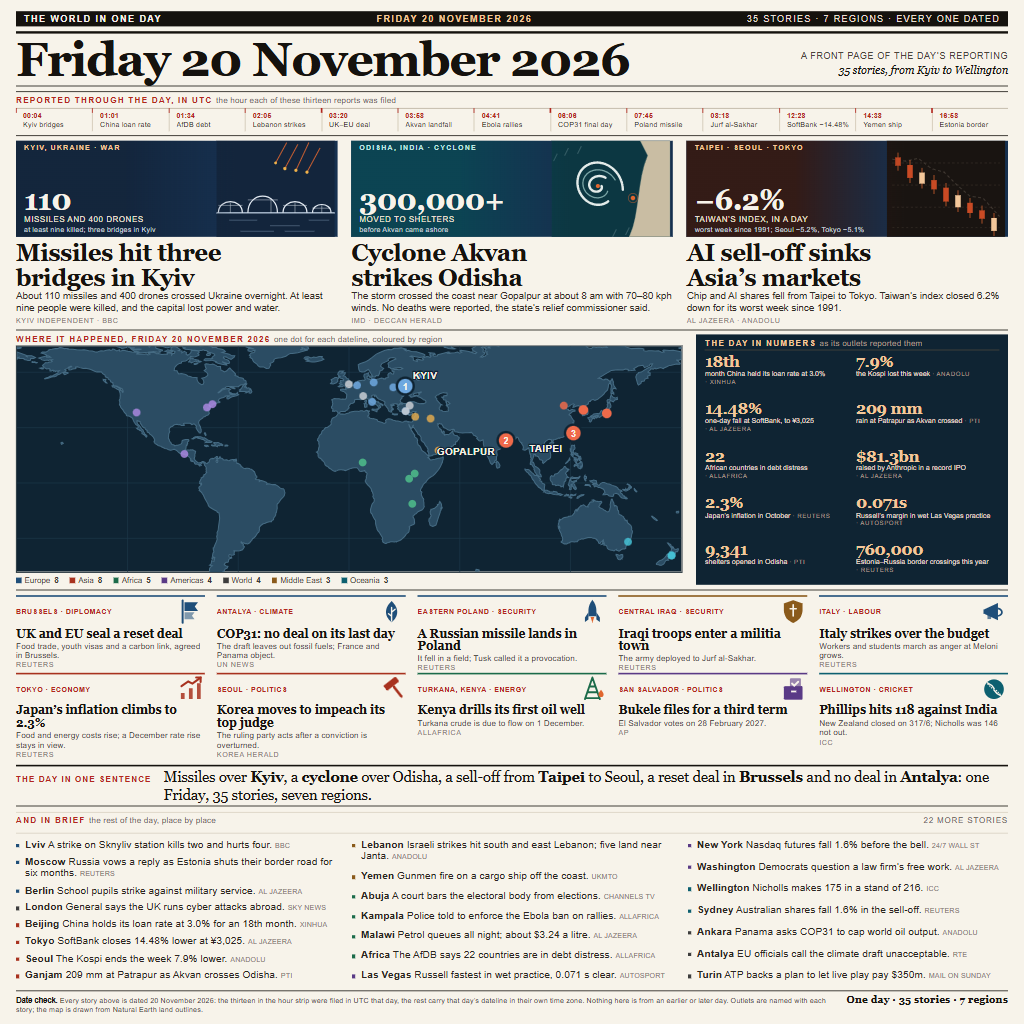
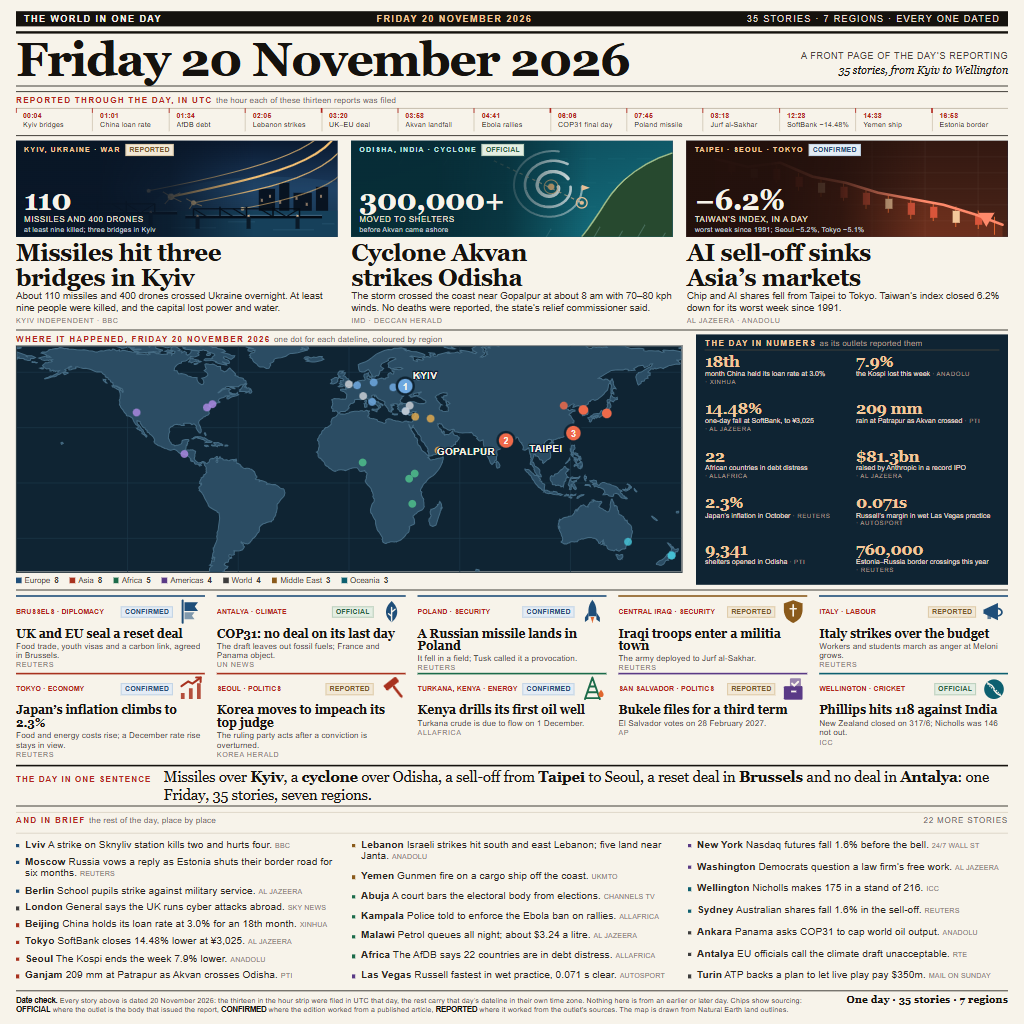
Full-bleed lead drawings behind a legibility scrim; sourcing chips on the three leads and ten cards

diff --git a/tools/poster.html b/tools/poster.html
@@ -36,13 +36,15 @@
   .leads { display:grid; grid-template-columns:repeat(3,minmax(0,1fr)); gap:0 14px }
   .lead { min-width:0; display:flex; flex-direction:column }
   .panel { position:relative; display:flex; height:96px; overflow:hidden; background:#16304f }
-  .panel .part { position:absolute; right:0; top:0; width:124px; height:96px }
-  .panel .part svg { display:block; width:124px; height:96px }
-  .panel::after { content:''; position:absolute; inset:0; background:linear-gradient(90deg, rgba(19,37,60,.97) 34%, rgba(19,37,60,0) 68%); z-index:1 }
-  .lead:nth-child(2) .panel::after { background:linear-gradient(90deg, rgba(11,68,83,.97) 34%, rgba(11,68,83,0) 68%) }
-  .lead:nth-child(3) .panel::after { background:linear-gradient(90deg, rgba(52,26,21,.97) 34%, rgba(52,26,21,0) 68%) }
+  .panel .part { position:absolute; inset:0 }
+  .panel .part svg { display:block; width:100%; height:96px }
+  .panel::after { content:''; position:absolute; inset:0; z-index:1;
+    background:linear-gradient(90deg, rgba(9,22,38,.98) 26%, rgba(9,22,38,.8) 48%, rgba(9,22,38,0) 74%) }
+  .lead:nth-child(2) .panel::after { background:linear-gradient(90deg, rgba(7,44,54,.98) 26%, rgba(7,44,54,.8) 48%, rgba(7,44,54,0) 74%) }
+  .lead:nth-child(3) .panel::after { background:linear-gradient(90deg, rgba(34,16,12,.98) 26%, rgba(34,16,12,.8) 48%, rgba(34,16,12,0) 74%) }
   .panel-txt { position:relative; z-index:2; padding:3px 0 3px 8px; width:100%; color:#f7f3ea;
     display:flex; flex-direction:column }
+  .pkrow { display:flex; align-items:center; gap:5px }
   .pk { font-size:7.4px; letter-spacing:.13em; text-transform:uppercase; color:#f3c79a; font-weight:700 }
   .pfig { font-family:Georgia,serif; font-size:29px; font-weight:700; line-height:1; letter-spacing:-.02em; margin-top:auto }
   .punit { font-size:8.2px; letter-spacing:.05em; text-transform:uppercase; color:#ece3d5; margin-top:1px }
@@ -78,7 +80,12 @@
   .cards { display:grid; grid-template-columns:repeat(5,minmax(0,1fr)); gap:0 12px; align-content:start }
   .card { padding:1px 0 1px; border-top:2px solid var(--gc); min-width:0 }
   .chead { display:flex; justify-content:space-between; align-items:center; gap:4px; min-height:28px }
-  .ck { flex:1 1 auto; min-width:0; font-size:6.9px; letter-spacing:.08em; text-transform:uppercase; color:var(--accent); font-weight:700; white-space:nowrap; overflow:hidden }
+  .ck { flex:1 1 auto; min-width:0; font-size:6.5px; letter-spacing:.06em; text-transform:uppercase; color:var(--accent); font-weight:700; white-space:nowrap; overflow:hidden }
+  .bdg { display:inline-block; flex:0 0 auto; font-size:6.5px; line-height:1; letter-spacing:.08em;
+    font-weight:700; text-transform:uppercase; padding:2px 3px 1.5px; border:.6px solid currentColor; white-space:nowrap }
+  .bdg.o { color:#2c6446; background:#e4eee3; border-color:#b4cbb6 }
+  .bdg.c { color:#2a4f78; background:#e4ecf5; border-color:#bccfe2 }
+  .bdg.r { color:#7b5b2c; background:#f2e8d6; border-color:#dbc6a0 }
   .cg { flex:0 0 28px; width:28px; height:28px; color:var(--gc) }
   .cg svg { display:block; width:28px; height:28px }
   .card h4 { font-family:Georgia,serif; font-size:12.1px; line-height:1.04; letter-spacing:-.01em; margin:1px 0 }
@@ -131,27 +138,59 @@
   <article class="lead">
     <div class="panel">
       <div class="panel-txt">
-        <div class="pk">KYIV, UKRAINE · WAR</div>
+        <div class="pkrow"><span class="pk">KYIV, UKRAINE · WAR</span><span class="bdg r">REPORTED</span></div>
         <div class="pfig">110</div>
         <div class="punit">missiles and 400 drones</div>
         <div class="psub">at least nine killed; three bridges in Kyiv</div>
       </div>
-      <div class="part"><svg viewBox="0 0 128 104" aria-hidden="true">
-    <rect width="128" height="104" fill="#13253c"/>
-    <g stroke="#e0662f" stroke-width="1" stroke-linecap="round" opacity="0.95">
-      <path d="M88 4L74 30"/><path d="M100 2L86 32"/><path d="M112 8L98 34"/><path d="M76 2L64 24"/>
+      <div class="part"><svg viewBox="0 0 315 96" preserveAspectRatio="none" aria-hidden="true">
+    <defs><linearGradient id="gb1" x1="0" y1="0" x2="0" y2="1">
+      <stop offset="0" stop-color="#0a1a30"/><stop offset=".5" stop-color="#1b3a5d"/><stop offset="1" stop-color="#0e2438"/>
+    </linearGradient></defs>
+    <rect width="315" height="96" fill="url(#gb1)"/>
+    <ellipse cx="250" cy="70" rx="120" ry="34" fill="#2a5a7d" opacity=".28"/>
+    <g fill="#060f1b" opacity=".92">
+      <rect x="0" y="56" width="20" height="16"/><rect x="26" y="50" width="12" height="22"/>
+      <rect x="238" y="48" width="16" height="24"/><rect x="258" y="42" width="10" height="30"/>
+      <rect x="272" y="52" width="18" height="20"/><rect x="294" y="46" width="12" height="26"/>
     </g>
-    <g fill="#f0b24a"><circle cx="74" cy="30" r="1.7"/><circle cx="86" cy="32" r="1.7"/><circle cx="98" cy="34" r="1.7"/><circle cx="64" cy="24" r="1.5"/></g>
-    <path d="M0 78H128" stroke="#aebfd2" stroke-width="1.5"/>
-    <g fill="none" stroke="#e4ebf3" stroke-width="1.3">
-      <path d="M2 78C2 62 28 62 28 78"/><path d="M34 78C34 54 66 54 66 78"/><path d="M72 78C72 62 98 62 98 78"/><path d="M104 78C104 66 124 66 124 78"/>
+    <g fill="none" stroke="#ffc775" stroke-linecap="round">
+      <path d="M314 -6C296 24 236 38 152 56" stroke-width="2.1" opacity=".95"/>
+      <path d="M316 12C292 38 238 50 174 62" stroke-width="1.2" opacity=".8"/>
+      <path d="M302 -8C278 16 222 32 130 50" stroke-width="1" opacity=".7"/>
+      <path d="M318 34C302 50 264 60 222 68" stroke-width="1" opacity=".55"/>
     </g>
-    <g stroke="#dbe3ec" stroke-width="0.6" opacity="0.85">
-      <path d="M15 78V67M59 78V62M85 78V67M114 78V70"/>
-      <path d="M2 70H28M34 64H66M72 70H98M104 73H124"/>
+    <g fill="#ffd9a0">
+      <circle cx="152" cy="56" r="3.2"/><circle cx="174" cy="62" r="2.4"/>
+      <circle cx="130" cy="50" r="1.9"/><circle cx="222" cy="68" r="1.7"/>
     </g>
-    <g stroke="#7f97b2" stroke-width="0.8" opacity="0.6">
-      <path d="M14 86H44M58 92H90M100 86H122M26 98H62M74 98H106"/>
+    <g stroke="#f6c27a" stroke-width=".9" opacity=".85">
+      <path d="M152 56l-8-5M152 56l9-4M152 56l-6 7M152 56l10 5"/>
+      <path d="M174 62l-7-4M174 62l8 3M174 62l-4 6"/>
+    </g>
+    <rect x="0" y="70" width="315" height="26" fill="#16405a"/>
+    <g fill="#f3c79a" opacity=".55"><rect x="240" y="58" width="2" height="3"/><rect x="248" y="54" width="2" height="3"/><rect x="258" y="60" width="2" height="3"/><rect x="274" y="56" width="2" height="3"/><rect x="284" y="62" width="2" height="3"/><rect x="298" y="54" width="2" height="3"/><rect x="6" y="60" width="2" height="3"/><rect x="14" y="56" width="2" height="3"/></g>
+    <g stroke="#2c5f79" stroke-width=".8" opacity=".6">
+      <path d="M8 78h26M46 84h34M96 79h30M152 87h44M208 81h26M252 89h40M300 83h12"/>
+    </g>
+    <g fill="none" stroke="#040c15" stroke-linejoin="round">
+      <path d="M16 72h142" stroke-width="3.4"/><path d="M166 76h134" stroke-width="3.2"/>
+      <path d="M16 70.6h142M166 74.6h134" stroke="#5b8bab" stroke-width=".7"/>
+      <path d="M24 72v-9M52 72v-12M80 72v-12M108 72v-12M136 72v-9" stroke-width="1.5"/>
+      <path d="M24 63h112" stroke-width="1.2"/>
+      <path d="M24 63l14 9M52 63l14 9M66 63l14 9M94 63l14 9M108 63l14 9M136 63l-14 9" stroke-width="1"/>
+      <path d="M174 76v-8M200 76v-10M226 76v-10M252 76v-10M278 76v-8" stroke-width="1.5"/>
+      <path d="M174 68h104" stroke-width="1.2"/>
+      <path d="M174 68l13 8M200 68l13 8M213 68l13 8M239 68l13 8M252 68l13 8M278 68l-13 8" stroke-width="1"/>
+    </g>
+    <g fill="#0a1a28">
+      <rect x="24" y="72" width="4" height="13"/><rect x="78" y="72" width="4" height="13"/>
+      <rect x="130" y="72" width="4" height="13"/><rect x="176" y="76" width="4" height="12"/>
+      <rect x="226" y="76" width="4" height="12"/><rect x="274" y="76" width="4" height="12"/>
+    </g>
+    <g fill="#f3c79a" opacity=".9">
+      <circle cx="26" cy="71" r=".9"/><circle cx="80" cy="71" r=".9"/><circle cx="132" cy="71" r=".9"/>
+      <circle cx="178" cy="75" r=".9"/><circle cx="228" cy="75" r=".9"/><circle cx="276" cy="75" r=".9"/>
     </g>
   </svg></div>
     </div>
@@ -162,22 +201,39 @@
   <article class="lead">
     <div class="panel">
       <div class="panel-txt">
-        <div class="pk">ODISHA, INDIA · CYCLONE</div>
+        <div class="pkrow"><span class="pk">ODISHA, INDIA · CYCLONE</span><span class="bdg o">OFFICIAL</span></div>
         <div class="pfig">300,000+</div>
         <div class="punit">moved to shelters</div>
         <div class="psub">before Akvan came ashore</div>
       </div>
-      <div class="part"><svg viewBox="0 0 128 104" aria-hidden="true">
-    <rect width="128" height="104" fill="#0c3742"/>
-    <path d="M96 0H128V104H84C96 78 92 44 104 16Z" fill="#c9bda3"/>
-    <path d="M96 0H128V104H84C96 78 92 44 104 16Z" fill="none" stroke="#8f9f92" stroke-width="0.6" opacity="0.6"/>
-    <path d="M54.0 49.0L54.1 49.1L54.1 49.2L54.1 49.4L54.2 49.5L54.2 49.6L54.2 49.8L54.3 49.9L54.3 50.1L54.3 50.2L54.3 50.4L54.3 50.5L54.3 50.7L54.3 50.8L54.3 51.0L54.2 51.1L54.2 51.3L54.2 51.4L54.1 51.6L54.1 51.7L54.0 51.9L53.9 52.0L53.9 52.2L53.8 52.3L53.7 52.5L53.6 52.6L53.5 52.8L53.4 52.9L53.3 53.1L53.1 53.2L53.0 53.3L52.9 53.5L52.7 53.6L52.6 53.7L52.4 53.9L52.3 54.0L52.1 54.1L51.9 54.2L51.7 54.3L51.6 54.4L51.4 54.5L51.2 54.6L51.0 54.7L50.8 54.7L50.5 54.8L50.3 54.9L50.1 54.9L49.9 55.0L49.7 55.0L49.4 55.1L49.2 55.1L49.0 55.1L48.7 55.1L48.5 55.1L48.2 55.1L48.0 55.1L47.7 55.1L47.5 55.1L47.3 55.1L47.0 55.0L46.8 55.0L46.5 54.9L46.3 54.8L46.0 54.8L45.8 54.7L45.5 54.6L45.3 54.5L45.0 54.4L44.8 54.3L44.6 54.1L44.3 54.0L44.1 53.9L43.9 53.7L43.7 53.6L43.5 53.4L43.3 53.2L43.1 53.0L42.9 52.9L42.7 52.7L42.5 52.5L42.3 52.3L42.1 52.0L42.0 51.8L41.8 51.6L41.7 51.4L41.5 51.1L41.4 50.9L41.3 50.6L41.2 50.4L41.1 50.1L41.0 49.8L40.9 49.6L40.8 49.3L40.8 49.0L40.7 48.7L40.7 48.4L40.6 48.2L40.6 47.9L40.6 47.6L40.6 47.3L40.6 47.0L40.7 46.7L40.7 46.4L40.8 46.1L40.8 45.8L40.9 45.5L41.0 45.2L41.1 44.9L41.2 44.6L41.3 44.3L41.4 44.0L41.6 43.7L41.7 43.5L41.9 43.2L42.1 42.9L42.3 42.6L42.5 42.4L42.7 42.1L42.9 41.8L43.2 41.6L43.4 41.4L43.7 41.1L43.9 40.9L44.2 40.7L44.5 40.5L44.8 40.2L45.1 40.0L45.4 39.9L45.7 39.7L46.1 39.5L46.4 39.3L46.8 39.2L47.1 39.0L47.5 38.9L47.9 38.8L48.2 38.7L48.6 38.6L49.0 38.5L49.4 38.4L49.8 38.4L50.2 38.3L50.6 38.3L51.0 38.2L51.4 38.2L51.8 38.2L52.2 38.2L52.6 38.3L53.1 38.3L53.5 38.4L53.9 38.4L54.3 38.5L54.7 38.6L55.1 38.7L55.5 38.8L55.9 38.9L56.3 39.1L56.7 39.2L57.1 39.4L57.5 39.6L57.9 39.8L58.3 40.0" fill="none" stroke="#eef4f2" stroke-width="2.6" stroke-linecap="round" opacity="0.95" transform="rotate(0 50 49)"/><path d="M62.0 49.0L62.0 49.4L62.1 49.7L62.1 50.1L62.1 50.5L62.1 50.9L62.1 51.2L62.0 51.6L62.0 52.0L61.9 52.4L61.9 52.7L61.8 53.1L61.6 53.5L61.5 53.9L61.4 54.2L61.2 54.6L61.1 55.0L60.9 55.3L60.7 55.7L60.5 56.0L60.2 56.4L60.0 56.7L59.7 57.1L59.5 57.4L59.2 57.7L58.9 58.0L58.6 58.3L58.3 58.6L57.9 58.9L57.6 59.2L57.2 59.5L56.9 59.7L56.5 60.0L56.1 60.2L55.7 60.4L55.3 60.6L54.9 60.8L54.4 61.0L54.0 61.2L53.6 61.4L53.1 61.5L52.6 61.7L52.2 61.8L51.7 61.9L51.2 62.0L50.7 62.1L50.3 62.1L49.8 62.2L49.3 62.2L48.8 62.2L48.3 62.2L47.8 62.2L47.2 62.2L46.7 62.2L46.2 62.1L45.7 62.0L45.2 61.9L44.7 61.8L44.2 61.7L43.7 61.6L43.2 61.4L42.7 61.3L42.3 61.1L41.8 60.9L41.3 60.7L40.8 60.4L40.4 60.2L39.9 59.9L39.5 59.7L39.1 59.4L38.6 59.1L38.2 58.7L37.8 58.4L37.4 58.1L37.1 57.7L36.7 57.3L36.3 57.0L36.0 56.6L35.7 56.2L35.4 55.7L35.1 55.3L34.8 54.9L34.5 54.4L34.3 54.0L34.0 53.5L33.8 53.0L33.6 52.6L33.5 52.1L33.3 51.6L33.2 51.1L33.0 50.6L32.9 50.1L32.8 49.5L32.8 49.0L32.7 48.5L32.7 48.0L32.7 47.4L32.7 46.9L32.7 46.4L32.8 45.8L32.9 45.3L33.0 44.8L33.1 44.2L33.2 43.7L33.4 43.2L33.5 42.7L33.7 42.1L34.0 41.6L34.2 41.1L34.4 40.6L34.7 40.1L35.0 39.6L35.3 39.2L35.7 38.7L36.0 38.2L36.4 37.8L36.8 37.3L37.2 36.9L37.6 36.5L38.1 36.1L38.5 35.7L39.0 35.3L39.5 34.9L40.0 34.6L40.5 34.2L41.0 33.9L41.6 33.6L42.1 33.3L42.7 33.0L43.3 32.8L43.9 32.5L44.5 32.3L45.1 32.1L45.7 31.9L46.4 31.7L47.0 31.6L47.7 31.4L48.3 31.3L49.0 31.2L49.6 31.2L50.3 31.1L51.0 31.1L51.7 31.1L52.3 31.1L53.0 31.1L53.7 31.2L54.4 31.2L55.1 31.3L55.7 31.4L56.4 31.6L57.1 31.7L57.7 31.9L58.4 32.1L59.1 32.3L59.7 32.6L60.3 32.8L61.0 33.1L61.6 33.4L62.2 33.7L62.8 34.1L63.4 34.4" fill="none" stroke="#9ec9c6" stroke-width="1.4" stroke-linecap="round" opacity="0.75" transform="rotate(28 50 49)"/><path d="M70.0 49.0L70.0 49.6L70.1 50.2L70.1 50.8L70.0 51.5L70.0 52.1L69.9 52.7L69.8 53.3L69.7 53.9L69.6 54.5L69.4 55.1L69.2 55.7L69.0 56.3L68.8 56.9L68.5 57.5L68.2 58.1L67.9 58.7L67.6 59.2L67.2 59.8L66.9 60.3L66.5 60.9L66.1 61.4L65.6 61.9L65.2 62.4L64.7 62.9L64.2 63.4L63.7 63.9L63.2 64.3L62.6 64.7L62.1 65.2L61.5 65.6L60.9 65.9L60.3 66.3L59.6 66.7L59.0 67.0L58.3 67.3L57.7 67.6L57.0 67.9L56.3 68.1L55.6 68.3L54.9 68.5L54.1 68.7L53.4 68.9L52.7 69.0L51.9 69.2L51.1 69.3L50.4 69.3L49.6 69.4L48.9 69.4L48.1 69.4L47.3 69.4L46.5 69.3L45.8 69.3L45.0 69.2L44.2 69.1L43.5 68.9L42.7 68.8L42.0 68.6L41.2 68.4L40.5 68.1L39.7 67.9L39.0 67.6L38.3 67.3L37.6 67.0L36.9 66.6L36.2 66.3L35.5 65.9L34.8 65.5L34.2 65.0L33.6 64.6L32.9 64.1L32.3 63.6L31.8 63.1L31.2 62.6L30.7 62.0L30.1 61.5L29.6 60.9L29.1 60.3L28.7 59.7L28.2 59.0L27.8 58.4L27.4 57.7L27.1 57.1L26.7 56.4L26.4 55.7L26.1 55.0L25.9 54.3L25.6 53.5L25.4 52.8L25.2 52.0L25.1 51.3L24.9 50.5L24.8 49.8L24.8 49.0L24.7 48.2L24.7 47.5L24.7 46.7L24.8 45.9L24.8 45.2L25.0 44.4L25.1 43.6L25.2 42.8L25.4 42.1L25.7 41.3L25.9 40.6L26.2 39.8L26.5 39.1L26.8 38.4L27.2 37.6L27.6 36.9L28.0 36.2L28.4 35.5L28.9 34.8L29.4 34.2L29.9 33.5L30.5 32.9L31.1 32.3L31.7 31.7L32.3 31.1L32.9 30.5L33.6 30.0L34.3 29.4L35.0 28.9L35.7 28.5L36.5 28.0L37.3 27.5L38.0 27.1L38.8 26.7L39.7 26.4L40.5 26.0L41.4 25.7L42.2 25.4L43.1 25.1L44.0 24.9L44.9 24.6L45.8 24.5L46.7 24.3L47.6 24.2L48.6 24.0L49.5 24.0L50.4 23.9L51.4 23.9L52.3 23.9L53.3 23.9L54.2 24.0L55.2 24.1L56.1 24.2L57.1 24.4L58.0 24.5L58.9 24.8L59.8 25.0L60.8 25.3L61.7 25.5L62.6 25.9L63.5 26.2L64.3 26.6L65.2 27.0L66.0 27.4L66.9 27.9L67.7 28.4L68.5 28.9" fill="none" stroke="#eef4f2" stroke-width="2.6" stroke-linecap="round" opacity="0.95" transform="rotate(56 50 49)"/>
-    <circle cx="50" cy="49" r="2.2" fill="#e0662f"/>
-    <g stroke="#b9d4d6" stroke-width="0.6" opacity="0.45">
-      <path d="M6 14L2 22M18 8L14 16M32 6L28 14M70 96L66 104M84 94L80 102"/>
+      <div class="part"><svg viewBox="0 0 315 96" preserveAspectRatio="none" aria-hidden="true">
+    <defs><linearGradient id="gc1" x1="0" y1="0" x2="1" y2="1">
+      <stop offset="0" stop-color="#0b4150"/><stop offset="1" stop-color="#14707f"/>
+    </linearGradient></defs>
+    <rect width="315" height="96" fill="url(#gc1)"/>
+    <g fill="none" stroke="#1d6b7a" stroke-width=".8" opacity=".45">
+      <path d="M0 18h315M0 42h315M0 66h315M0 90h315" stroke-dasharray="16 12"/>
     </g>
-    <circle cx="88" cy="62" r="2.4" fill="#e0662f"/>
-    <circle cx="88" cy="62" r="5" fill="none" stroke="#e0662f" stroke-width="0.8" opacity="0.55"/>
+    <path d="M226 96C244 74 250 55 268 39C282 26 300 17 315 12V96Z" fill="#27492f"/>
+    <path d="M226 96C244 74 250 55 268 39C282 26 300 17 315 12" fill="none" stroke="#a3c08c" stroke-width="1.4"/>
+    <g fill="none" stroke="#f2fbfa" stroke-linecap="round" transform="translate(196 46)">
+      <path d="M7.0 0.0L7.1 0.2L7.1 0.5L7.2 0.7L7.2 0.9L7.3 1.2L7.3 1.4L7.3 1.7L7.3 1.9L7.3 2.2L7.2 2.5L7.2 2.7L7.2 3.0L7.1 3.2L7.0 3.5L7.0 3.8L6.9 4.0L6.8 4.3L6.6 4.5L6.5 4.8L6.4 5.1L6.2 5.3L6.1 5.6L5.9 5.8L5.7 6.0L5.5 6.3L5.3 6.5L5.1 6.7L4.8 6.9L4.6 7.2L4.3 7.4L4.1 7.6L3.8 7.7L3.5 7.9L3.2 8.1L2.9 8.3L2.6 8.4L2.3 8.6L1.9 8.7L1.6 8.8L1.3 8.9L0.9 9.0L0.5 9.1L0.2 9.2L-0.2 9.3L-0.6 9.3L-1.0 9.4L-1.3 9.4L-1.7 9.4L-2.1 9.4L-2.5 9.4L-2.9 9.4L-3.3 9.3L-3.7 9.3L-4.1 9.2L-4.5 9.2L-4.9 9.1L-5.3 9.0L-5.7 8.8L-6.1 8.7L-6.5 8.6L-6.8 8.4L-7.2 8.2L-7.6 8.0L-8.0 7.8L-8.3 7.6L-8.7 7.4L-9.0 7.1L-9.4 6.9L-9.7 6.6L-10.0 6.3L-10.3 6.0L-10.6 5.7L-10.9 5.4L-11.2 5.1L-11.5 4.8L-11.7 4.4L-12.0 4.0L-12.2 3.7L-12.4 3.3L-12.6 2.9L-12.8 2.5L-12.9 2.1L-13.1 1.7L-13.2 1.3L-13.3 0.9L-13.4 0.4L-13.5 -0.0L-13.6 -0.5L-13.6 -0.9L-13.7 -1.4L-13.7 -1.8L-13.7 -2.3L-13.6 -2.7L-13.6 -3.2L-13.5 -3.6L-13.4 -4.1L-13.3 -4.6L-13.2 -5.0L-13.1 -5.5L-12.9 -5.9L-12.7 -6.4L-12.5 -6.8L-12.3 -7.3L-12.1 -7.7L-11.8 -8.1L-11.5 -8.5L-11.3 -9.0L-10.9 -9.4L-10.6 -9.8L-10.3 -10.2L-9.9 -10.5L-9.5 -10.9L-9.1 -11.3L-8.7 -11.6L-8.3 -11.9L-7.8 -12.3L-7.4 -12.6L-6.9 -12.8L-6.4 -13.1L-5.9 -13.4L-5.4 -13.6L-4.8 -13.9L-4.3 -14.1L-3.8 -14.3L-3.2 -14.5L-2.6 -14.6L-2.0 -14.8L-1.5 -14.9L-0.9 -15.0L-0.3 -15.1L0.3 -15.1L1.0 -15.2L1.6 -15.2L2.2 -15.2L2.8 -15.2L3.4 -15.2L4.1 -15.1L4.7 -15.0L5.3 -14.9L5.9 -14.8L6.5 -14.7L7.2 -14.5L7.8 -14.3L8.4 -14.1L9.0 -13.9L9.6 -13.7L10.2 -13.4L10.7 -13.1L11.3 -12.8L11.9 -12.5L12.4 -12.1L12.9 -11.8L13.4 -11.4L14.0 -11.0L14.4 -10.6L14.9 -10.1L15.4 -9.7L15.8 -9.2L16.2 -8.7L16.6 -8.2" stroke-width="3.4"/>
+      <path d="M19.0 0.0L19.1 0.6L19.1 1.1L19.1 1.7L19.1 2.3L19.1 2.9L19.0 3.4L19.0 4.0L18.9 4.6L18.8 5.2L18.6 5.7L18.5 6.3L18.3 6.9L18.1 7.4L17.9 8.0L17.6 8.6L17.4 9.1L17.1 9.7L16.8 10.2L16.4 10.7L16.1 11.2L15.7 11.8L15.3 12.3L14.9 12.7L14.5 13.2L14.1 13.7L13.6 14.1L13.1 14.6L12.6 15.0L12.1 15.4L11.6 15.8L11.0 16.2L10.4 16.6L9.9 17.0L9.3 17.3L8.7 17.6L8.0 17.9L7.4 18.2L6.7 18.5L6.1 18.7L5.4 19.0L4.7 19.2L4.0 19.4L3.3 19.5L2.6 19.7L1.9 19.8L1.2 19.9L0.5 20.0L-0.3 20.1L-1.0 20.1L-1.8 20.1L-2.5 20.1L-3.3 20.1L-4.0 20.1L-4.7 20.0L-5.5 19.9L-6.2 19.8L-7.0 19.6L-7.7 19.5L-8.5 19.3L-9.2 19.1L-9.9 18.9L-10.6 18.6L-11.3 18.4L-12.0 18.1L-12.7 17.7L-13.4 17.4L-14.1 17.0L-14.7 16.7L-15.4 16.3L-16.0 15.9L-16.6 15.4L-17.3 15.0L-17.8 14.5L-18.4 14.0L-19.0 13.5L-19.5 12.9L-20.0 12.4L-20.5 11.8L-21.0 11.2L-21.5 10.6L-21.9 10.0L-22.3 9.4L-22.7 8.7L-23.1 8.1L-23.4 7.4L-23.8 6.7L-24.1 6.0L-24.3 5.3L-24.6 4.6L-24.8 3.9L-25.0 3.2L-25.2 2.4L-25.3 1.7L-25.4 0.9L-25.5 0.2L-25.6 -0.6L-25.6 -1.3L-25.6 -2.1L-25.6 -2.9L-25.6 -3.6L-25.5 -4.4L-25.4 -5.2L-25.2 -5.9L-25.1 -6.7L-24.9 -7.5L-24.6 -8.2L-24.4 -9.0L-24.1 -9.7L-23.8 -10.5L-23.5 -11.2L-23.1 -11.9L-22.7 -12.6L-22.3 -13.3L-21.9 -14.0L-21.4 -14.7L-20.9 -15.4L-20.4 -16.0L-19.8 -16.6L-19.3 -17.3L-18.7 -17.9L-18.0 -18.5L-17.4 -19.0L-16.7 -19.6L-16.0 -20.1L-15.3 -20.6L-14.6 -21.1L-13.9 -21.6L-13.1 -22.1L-12.3 -22.5L-11.5 -22.9L-10.7 -23.3L-9.8 -23.7L-9.0 -24.0L-8.1 -24.3L-7.2 -24.6L-6.4 -24.9L-5.5 -25.1L-4.5 -25.3L-3.6 -25.5L-2.7 -25.6L-1.8 -25.8L-0.8 -25.9L0.1 -25.9L1.1 -26.0L2.0 -26.0L3.0 -26.0L4.0 -26.0L4.9 -25.9L5.9 -25.8L6.8 -25.7L7.8 -25.5L8.7 -25.3L9.7 -25.1L10.6 -24.9L11.6 -24.6L12.5 -24.3L13.4 -23.9L14.3 -23.6L15.2 -23.2L16.1 -22.8" stroke-width="2.6" opacity=".85"/>
+      <path d="M30.0 0.0L30.0 0.8L30.1 1.7L30.1 2.5L30.0 3.3L30.0 4.2L29.9 5.0L29.7 5.8L29.6 6.7L29.4 7.5L29.2 8.3L29.0 9.1L28.7 9.9L28.4 10.8L28.1 11.6L27.7 12.3L27.4 13.1L26.9 13.9L26.5 14.7L26.1 15.4L25.6 16.2L25.1 16.9L24.5 17.6L24.0 18.3L23.4 19.0L22.8 19.7L22.1 20.3L21.5 21.0L20.8 21.6L20.1 22.2L19.3 22.8L18.6 23.4L17.8 23.9L17.0 24.4L16.2 25.0L15.4 25.4L14.6 25.9L13.7 26.3L12.8 26.8L11.9 27.2L11.0 27.5L10.1 27.9L9.2 28.2L8.2 28.5L7.2 28.7L6.3 29.0L5.3 29.2L4.3 29.4L3.3 29.6L2.3 29.7L1.3 29.8L0.3 29.9L-0.7 29.9L-1.8 29.9L-2.8 29.9L-3.8 29.9L-4.8 29.8L-5.8 29.7L-6.9 29.6L-7.9 29.5L-8.9 29.3L-9.9 29.1L-10.9 28.9L-11.9 28.6L-12.9 28.3L-13.9 28.0L-14.9 27.6L-15.8 27.3L-16.8 26.9L-17.7 26.4L-18.6 26.0L-19.6 25.5L-20.5 25.0L-21.3 24.5L-22.2 23.9L-23.0 23.3L-23.9 22.7L-24.7 22.1L-25.5 21.5L-26.2 20.8L-27.0 20.1L-27.7 19.4L-28.4 18.6L-29.1 17.9L-29.7 17.1L-30.3 16.3L-30.9 15.5L-31.5 14.6L-32.0 13.8L-32.5 12.9L-33.0 12.0L-33.5 11.1L-33.9 10.2L-34.3 9.3L-34.6 8.4L-35.0 7.4L-35.3 6.5L-35.5 5.5L-35.8 4.5L-36.0 3.5L-36.1 2.6L-36.3 1.6L-36.4 0.6L-36.4 -0.4L-36.5 -1.4L-36.5 -2.5L-36.4 -3.5L-36.3 -4.5L-36.2 -5.5L-36.1 -6.5L-35.9 -7.5L-35.7 -8.5L-35.5 -9.5L-35.2 -10.5L-34.9 -11.5L-34.5 -12.4L-34.1 -13.4L-33.7 -14.4L-33.3 -15.3L-32.8 -16.3L-32.3 -17.2L-31.7 -18.1L-31.2 -19.0L-30.5 -19.9L-29.9 -20.7L-29.2 -21.6L-28.5 -22.4L-27.8 -23.2L-27.0 -24.0L-26.3 -24.8L-25.4 -25.6L-24.6 -26.3L-23.7 -27.0L-22.8 -27.7L-21.9 -28.4L-21.0 -29.0L-20.0 -29.6L-19.0 -30.2L-18.0 -30.7L-17.0 -31.3L-15.9 -31.8L-14.9 -32.3L-13.8 -32.7L-12.7 -33.1L-11.6 -33.5L-10.5 -33.9L-9.3 -34.2L-8.2 -34.5L-7.0 -34.8L-5.8 -35.0L-4.6 -35.2L-3.4 -35.4L-2.2 -35.5L-1.0 -35.6L0.2 -35.7L1.4 -35.7L2.6 -35.7L3.8 -35.7L5.1 -35.6L6.3 -35.5L7.5 -35.4" stroke-width="2" opacity=".55"/>
+    </g>
+    <circle cx="196" cy="46" r="3.2" fill="#ffc07a"/>
+    <circle cx="196" cy="46" r="6.8" fill="none" stroke="#ffc07a" stroke-width="1" opacity=".8"/>
+    <g stroke="#9fd0d4" stroke-width=".7" opacity=".4" stroke-linecap="round">
+      <path d="M14 10l-8 14M34 4l-9 16M56 8l-9 16M78 2l-9 16M100 8l-9 16M122 4l-8 14"/>
+      <path d="M244 86l-8 14M266 90l-8 14M288 84l-8 14M308 92l-7 12"/>
+      <path d="M12 52l-7 12M70 56l-7 12M128 52l-7 12M196 88l-7 12"/>
+    </g>
+    <g>
+      <path d="M140 20L226 62" stroke="#f3c79a" stroke-width="1" stroke-dasharray="3 4" opacity=".8"/>
+      <circle cx="226" cy="62" r="5.2" fill="none" stroke="#f3c79a" stroke-width="1.3"/>
+      <circle cx="226" cy="62" r="2" fill="#f3c79a"/>
+      <path d="M226 56V44l8 3-8 3" fill="#f3c79a"/>
+    </g>
   </svg></div>
     </div>
     <h3>Cyclone Akvan<br>strikes Odisha</h3>
@@ -187,20 +243,34 @@
   <article class="lead">
     <div class="panel">
       <div class="panel-txt">
-        <div class="pk">TAIPEI · SEOUL · TOKYO</div>
+        <div class="pkrow"><span class="pk">TAIPEI · SEOUL · TOKYO</span><span class="bdg c">CONFIRMED</span></div>
         <div class="pfig">−6.2%</div>
         <div class="punit">Taiwan’s index, in a day</div>
         <div class="psub">worst week since 1991; Seoul −5.2%, Tokyo −5.1%</div>
       </div>
-      <div class="part"><svg viewBox="0 0 128 104" aria-hidden="true">
-    <rect width="128" height="104" fill="#191411"/>
-    <g stroke="#3b332b" stroke-width="0.6" stroke-dasharray="2 3">
-      <path d="M6 24H122M6 48H122M6 72H122M6 94H122"/>
+      <div class="part"><svg viewBox="0 0 315 96" preserveAspectRatio="none" aria-hidden="true">
+    <defs><linearGradient id="gm1" x1="0" y1="0" x2="0" y2="1">
+      <stop offset="0" stop-color="#331811"/><stop offset="1" stop-color="#4b2418"/>
+    </linearGradient></defs>
+    <rect width="315" height="96" fill="url(#gm1)"/>
+    <g stroke="#f7f3ea" stroke-width=".6" opacity=".07">
+      <path d="M0 16h315M0 32h315M0 48h315M0 64h315M0 80h315"/>
+      <path d="M26 0v96M78 0v96M130 0v96M182 0v96M234 0v96M286 0v96"/>
     </g>
-    <g stroke="#6b6055" stroke-width="1" fill="none" stroke-linejoin="round" stroke-dasharray="3 3" opacity="0.5">
-      <path d="M6 20L20 22L34 19L48 30L62 34L76 48L90 60L104 62L122 82"/>
+    <path d="M28 18L60 26L92 22L124 36L156 42L188 52L220 58L252 64L284 74L310 84V96H28Z" fill="#e0552c" opacity=".22"/>
+    <g stroke="#e0662f" stroke-width="1">
+      <path d="M44 20v14M66 24v16M88 24v18M110 32v18M132 38v18M154 42v18M176 48v20M198 54v18M220 58v20M242 62v18M264 66v20M286 70v18M302 76v18"/>
     </g>
-    <line x1="12" y1="13.0" x2="12" y2="32.0" stroke="#e0662f" stroke-width="0.8"/><rect x="9.0" y="18.0" width="6" height="9" fill="#c94a24"/><line x1="25" y1="21.2" x2="25" y2="45.2" stroke="#e0662f" stroke-width="0.8"/><rect x="22.0" y="26.2" width="6" height="14" fill="#c94a24"/><line x1="38" y1="29.4" x2="38" y2="51.4" stroke="#e0662f" stroke-width="0.8"/><rect x="35.0" y="34.4" width="6" height="12" fill="#f3c79a"/><line x1="51" y1="37.6" x2="51" y2="57.6" stroke="#e0662f" stroke-width="0.8"/><rect x="48.0" y="42.6" width="6" height="10" fill="#c94a24"/><line x1="64" y1="45.8" x2="64" y2="70.8" stroke="#e0662f" stroke-width="0.8"/><rect x="61.0" y="50.8" width="6" height="15" fill="#c94a24"/><line x1="77" y1="54.0" x2="77" y2="77.0" stroke="#e0662f" stroke-width="0.8"/><rect x="74.0" y="59.0" width="6" height="13" fill="#f3c79a"/><line x1="90" y1="62.2" x2="90" y2="83.2" stroke="#e0662f" stroke-width="0.8"/><rect x="87.0" y="67.2" width="6" height="11" fill="#c94a24"/><line x1="103" y1="70.4" x2="103" y2="89.4" stroke="#e0662f" stroke-width="0.8"/><rect x="100.0" y="75.4" width="6" height="9" fill="#c94a24"/><line x1="116" y1="78.6" x2="116" y2="102.6" stroke="#e0662f" stroke-width="0.8"/><rect x="113.0" y="83.6" width="6" height="14" fill="#f3c79a"/>
+    <g>
+      <rect x="41" y="23" width="7" height="8" fill="#d9553a"/><rect x="63" y="28" width="7" height="9" fill="#f3c79a"/>
+      <rect x="85" y="28" width="7" height="11" fill="#d9553a"/><rect x="107" y="36" width="7" height="10" fill="#d9553a"/>
+      <rect x="129" y="42" width="7" height="10" fill="#f3c79a"/><rect x="151" y="46" width="7" height="11" fill="#d9553a"/>
+      <rect x="173" y="52" width="7" height="12" fill="#d9553a"/><rect x="195" y="58" width="7" height="10" fill="#f3c79a"/>
+      <rect x="217" y="62" width="7" height="12" fill="#d9553a"/><rect x="239" y="66" width="7" height="11" fill="#d9553a"/>
+      <rect x="261" y="70" width="7" height="12" fill="#f3c79a"/><rect x="283" y="74" width="7" height="10" fill="#d9553a"/>
+    </g>
+    <path d="M28 18L60 26L92 22L124 36L156 42L188 52L220 58L252 64L284 74L310 84" fill="none" stroke="#ff8a6b" stroke-width="2.6" stroke-linejoin="round" stroke-linecap="round"/>
+    <path d="M286 72h16l-8 14z" fill="#ff8a6b"/>
   </svg></div>
     </div>
     <h3>AI sell-off sinks<br>Asia’s markets</h3>
@@ -233,61 +303,61 @@
 
   <section class="cards">
   <article class="card" style="--gc:#1f4e79">
-    <div class="chead"><span class="ck">BRUSSELS · DIPLOMACY</span><span class="cg"><svg viewBox="0 0 24 24" aria-hidden="true"><path d="M5 2.5v19" stroke="currentColor" stroke-width="1.7" stroke-linecap="round"/><path d="M6.6 4h11.6l-2.8 3.7 2.8 3.7H6.6z" fill="currentColor"/><path d="M6.6 12.6h8.6l-2.2 3 2.2 3H6.6z" fill="currentColor" opacity=".55"/></svg></span></div>
+    <div class="chead"><span class="ck">BRUSSELS · DIPLOMACY</span><span class="bdg c">CONFIRMED</span><span class="cg"><svg viewBox="0 0 24 24" aria-hidden="true"><path d="M5 2.5v19" stroke="currentColor" stroke-width="1.7" stroke-linecap="round"/><path d="M6.6 4h11.6l-2.8 3.7 2.8 3.7H6.6z" fill="currentColor"/><path d="M6.6 12.6h8.6l-2.2 3 2.2 3H6.6z" fill="currentColor" opacity=".55"/></svg></span></div>
     <h4>UK and EU seal a reset deal</h4>
     <p>Food trade, youth visas and a carbon link, agreed in Brussels.</p>
     <div class="src">Reuters</div>
   </article>
   <article class="card" style="--gc:#1f4e79">
-    <div class="chead"><span class="ck">ANTALYA · CLIMATE</span><span class="cg"><svg viewBox="0 0 24 24" aria-hidden="true"><path d="M12 21C5.8 16.2 5.4 9.2 12 3c6.6 6.2 6.2 13.2 0 18z" fill="currentColor"/><path d="M12 20V8.5M12 12.5l3-2.5M12 16l-2.6-2.2" stroke="#f7f3ea" stroke-width="1.2" fill="none" stroke-linecap="round"/></svg></span></div>
+    <div class="chead"><span class="ck">ANTALYA · CLIMATE</span><span class="bdg o">OFFICIAL</span><span class="cg"><svg viewBox="0 0 24 24" aria-hidden="true"><path d="M12 21C5.8 16.2 5.4 9.2 12 3c6.6 6.2 6.2 13.2 0 18z" fill="currentColor"/><path d="M12 20V8.5M12 12.5l3-2.5M12 16l-2.6-2.2" stroke="#f7f3ea" stroke-width="1.2" fill="none" stroke-linecap="round"/></svg></span></div>
     <h4>COP31: no deal on its last day</h4>
     <p>The draft leaves out fossil fuels; France and Panama object.</p>
     <div class="src">UN News</div>
   </article>
   <article class="card" style="--gc:#1f4e79">
-    <div class="chead"><span class="ck">EASTERN POLAND · SECURITY</span><span class="cg"><svg viewBox="0 0 24 24" aria-hidden="true"><path d="M12 2c2.3 2.8 3.4 5.9 3.4 9.4V16H8.6v-4.6C8.6 7.9 9.7 4.8 12 2z" fill="currentColor"/><path d="M8.6 12.6 5.6 17v4l3-2.2M15.4 12.6 18.4 17v4l-3-2.2" fill="currentColor"/><path d="M10.4 16.6h3.2L12 21.6z" fill="#e0662f"/></svg></span></div>
+    <div class="chead"><span class="ck">POLAND · SECURITY</span><span class="bdg c">CONFIRMED</span><span class="cg"><svg viewBox="0 0 24 24" aria-hidden="true"><path d="M12 2c2.3 2.8 3.4 5.9 3.4 9.4V16H8.6v-4.6C8.6 7.9 9.7 4.8 12 2z" fill="currentColor"/><path d="M8.6 12.6 5.6 17v4l3-2.2M15.4 12.6 18.4 17v4l-3-2.2" fill="currentColor"/><path d="M10.4 16.6h3.2L12 21.6z" fill="#e0662f"/></svg></span></div>
     <h4>A Russian missile lands in Poland</h4>
     <p>It fell in a field; Tusk called it a provocation.</p>
     <div class="src">Reuters</div>
   </article>
   <article class="card" style="--gc:#8a5a1b">
-    <div class="chead"><span class="ck">CENTRAL IRAQ · SECURITY</span><span class="cg"><svg viewBox="0 0 24 24" aria-hidden="true"><path d="M12 2.2 20 5v6.3c0 5-3.4 8.7-8 10.5-4.6-1.8-8-5.5-8-10.5V5z" fill="currentColor"/><path d="M12 6.2v9.6M9.4 9.6h5.2" stroke="#f7f3ea" stroke-width="1.4" stroke-linecap="round"/></svg></span></div>
+    <div class="chead"><span class="ck">CENTRAL IRAQ · SECURITY</span><span class="bdg r">REPORTED</span><span class="cg"><svg viewBox="0 0 24 24" aria-hidden="true"><path d="M12 2.2 20 5v6.3c0 5-3.4 8.7-8 10.5-4.6-1.8-8-5.5-8-10.5V5z" fill="currentColor"/><path d="M12 6.2v9.6M9.4 9.6h5.2" stroke="#f7f3ea" stroke-width="1.4" stroke-linecap="round"/></svg></span></div>
     <h4>Iraqi troops enter a militia town</h4>
     <p>The army deployed to Jurf al-Sakhar.</p>
     <div class="src">Reuters</div>
   </article>
   <article class="card" style="--gc:#1f4e79">
-    <div class="chead"><span class="ck">ITALY · LABOUR</span><span class="cg"><svg viewBox="0 0 24 24" aria-hidden="true"><path d="M3 10.4 15.4 4.6v14.8L3 13.6z" fill="currentColor"/><path d="M15.4 9.2c2.2.7 3.4 1.8 3.4 3.3s-1.2 2.6-3.4 3.3" fill="none" stroke="currentColor" stroke-width="1.5"/><path d="M6.4 14.2v4.2h3.1v-3.2" fill="currentColor" opacity=".7"/></svg></span></div>
+    <div class="chead"><span class="ck">ITALY · LABOUR</span><span class="bdg r">REPORTED</span><span class="cg"><svg viewBox="0 0 24 24" aria-hidden="true"><path d="M3 10.4 15.4 4.6v14.8L3 13.6z" fill="currentColor"/><path d="M15.4 9.2c2.2.7 3.4 1.8 3.4 3.3s-1.2 2.6-3.4 3.3" fill="none" stroke="currentColor" stroke-width="1.5"/><path d="M6.4 14.2v4.2h3.1v-3.2" fill="currentColor" opacity=".7"/></svg></span></div>
     <h4>Italy strikes over the budget</h4>
     <p>Workers and students march as anger at Meloni grows.</p>
     <div class="src">Reuters</div>
   </article>
   <article class="card" style="--gc:#a8321f">
-    <div class="chead"><span class="ck">TOKYO · ECONOMY</span><span class="cg"><svg viewBox="0 0 24 24" aria-hidden="true"><path d="M3.5 20.5h3.2v-5.2H3.5zM10.4 20.5h3.2v-9.4h-3.2zM17.3 20.5h3.2V6.8h-3.2z" fill="currentColor" opacity=".85"/><path d="M4 9.4l5.8-4 3.6 1.8L20.4 2" fill="none" stroke="currentColor" stroke-width="1.8" stroke-linecap="round"/><path d="M16.6 2h3.8v3.8" fill="none" stroke="currentColor" stroke-width="1.8" stroke-linecap="round"/></svg></span></div>
+    <div class="chead"><span class="ck">TOKYO · ECONOMY</span><span class="bdg c">CONFIRMED</span><span class="cg"><svg viewBox="0 0 24 24" aria-hidden="true"><path d="M3.5 20.5h3.2v-5.2H3.5zM10.4 20.5h3.2v-9.4h-3.2zM17.3 20.5h3.2V6.8h-3.2z" fill="currentColor" opacity=".85"/><path d="M4 9.4l5.8-4 3.6 1.8L20.4 2" fill="none" stroke="currentColor" stroke-width="1.8" stroke-linecap="round"/><path d="M16.6 2h3.8v3.8" fill="none" stroke="currentColor" stroke-width="1.8" stroke-linecap="round"/></svg></span></div>
     <h4>Japan’s inflation climbs to 2.3%</h4>
     <p>Food and energy costs rise; a December rate rise stays in view.</p>
     <div class="src">Reuters</div>
   </article>
   <article class="card" style="--gc:#a8321f">
-    <div class="chead"><span class="ck">SEOUL · POLITICS</span><span class="cg"><svg viewBox="0 0 24 24" aria-hidden="true"><g transform="rotate(-38 12 7.5)"><rect x="5.4" y="4.4" width="13.2" height="5.4" rx="1.1" fill="currentColor"/><rect x="10.9" y="9.6" width="2.2" height="12.4" rx="1" fill="currentColor"/></g></svg></span></div>
+    <div class="chead"><span class="ck">SEOUL · POLITICS</span><span class="bdg r">REPORTED</span><span class="cg"><svg viewBox="0 0 24 24" aria-hidden="true"><g transform="rotate(-38 12 7.5)"><rect x="5.4" y="4.4" width="13.2" height="5.4" rx="1.1" fill="currentColor"/><rect x="10.9" y="9.6" width="2.2" height="12.4" rx="1" fill="currentColor"/></g></svg></span></div>
     <h4>Korea moves to impeach its top judge</h4>
     <p>The ruling party acts after a conviction is overturned.</p>
     <div class="src">Korea Herald</div>
   </article>
   <article class="card" style="--gc:#1c6b4a">
-    <div class="chead"><span class="ck">TURKANA, KENYA · ENERGY</span><span class="cg"><svg viewBox="0 0 24 24" aria-hidden="true"><path d="M12 2 5.6 20.5M12 2l6.4 18.5M8 14.6h8M9.3 9.7h5.4M6.6 19.6h10.8" fill="none" stroke="currentColor" stroke-width="1.6" stroke-linecap="round"/><path d="M19.4 12.4c1.5 1.9 2.2 3.1 2.2 4.1a2.2 2.2 0 0 1-4.4 0c0-1 .7-2.2 2.2-4.1z" fill="#e0662f"/></svg></span></div>
+    <div class="chead"><span class="ck">TURKANA, KENYA · ENERGY</span><span class="bdg c">CONFIRMED</span><span class="cg"><svg viewBox="0 0 24 24" aria-hidden="true"><path d="M12 2 5.6 20.5M12 2l6.4 18.5M8 14.6h8M9.3 9.7h5.4M6.6 19.6h10.8" fill="none" stroke="currentColor" stroke-width="1.6" stroke-linecap="round"/><path d="M19.4 12.4c1.5 1.9 2.2 3.1 2.2 4.1a2.2 2.2 0 0 1-4.4 0c0-1 .7-2.2 2.2-4.1z" fill="#e0662f"/></svg></span></div>
     <h4>Kenya drills its first oil well</h4>
     <p>Turkana crude is due to flow on 1 December.</p>
     <div class="src">allAfrica</div>
   </article>
   <article class="card" style="--gc:#5a3a86">
-    <div class="chead"><span class="ck">SAN SALVADOR · POLITICS</span><span class="cg"><svg viewBox="0 0 24 24" aria-hidden="true"><rect x="4" y="9.4" width="16" height="11.6" rx="1.2" fill="currentColor"/><rect x="9.2" y="2.6" width="9.4" height="9.2" rx="1" fill="currentColor" opacity=".6"/><path d="M11 7.1l1.9 1.9 3.4-3.4" fill="none" stroke="#f7f3ea" stroke-width="1.6" stroke-linecap="round"/><rect x="10.2" y="13.2" width="4.4" height="1.5" fill="#f7f3ea"/></svg></span></div>
+    <div class="chead"><span class="ck">SAN SALVADOR · POLITICS</span><span class="bdg r">REPORTED</span><span class="cg"><svg viewBox="0 0 24 24" aria-hidden="true"><rect x="4" y="9.4" width="16" height="11.6" rx="1.2" fill="currentColor"/><rect x="9.2" y="2.6" width="9.4" height="9.2" rx="1" fill="currentColor" opacity=".6"/><path d="M11 7.1l1.9 1.9 3.4-3.4" fill="none" stroke="#f7f3ea" stroke-width="1.6" stroke-linecap="round"/><rect x="10.2" y="13.2" width="4.4" height="1.5" fill="#f7f3ea"/></svg></span></div>
     <h4>Bukele files for a third term</h4>
     <p>El Salvador votes on 28 February 2027.</p>
     <div class="src">AP</div>
   </article>
   <article class="card" style="--gc:#0d6070">
-    <div class="chead"><span class="ck">WELLINGTON · CRICKET</span><span class="cg"><svg viewBox="0 0 24 24" aria-hidden="true"><circle cx="12" cy="12" r="8.4" fill="currentColor"/><path d="M6.4 6.6c3 1.1 4.6 3.1 5.7 4.9M17.6 17.4c-3-1.1-4.6-3.1-5.7-4.9" fill="none" stroke="#f7f3ea" stroke-width="1.3" stroke-linecap="round"/><g stroke="#f7f3ea" stroke-width="1"><path d="M7.4 8.2 6.4 7.4M8.9 9.7l-1-.8M10.4 11.2l-1-.8M16.6 15.8l1 .8M15.1 14.3l1 .8M13.6 12.8l1 .8"/></g></svg></span></div>
+    <div class="chead"><span class="ck">WELLINGTON · CRICKET</span><span class="bdg o">OFFICIAL</span><span class="cg"><svg viewBox="0 0 24 24" aria-hidden="true"><circle cx="12" cy="12" r="8.4" fill="currentColor"/><path d="M6.4 6.6c3 1.1 4.6 3.1 5.7 4.9M17.6 17.4c-3-1.1-4.6-3.1-5.7-4.9" fill="none" stroke="#f7f3ea" stroke-width="1.3" stroke-linecap="round"/><g stroke="#f7f3ea" stroke-width="1"><path d="M7.4 8.2 6.4 7.4M8.9 9.7l-1-.8M10.4 11.2l-1-.8M16.6 15.8l1 .8M15.1 14.3l1 .8M13.6 12.8l1 .8"/></g></svg></span></div>
     <h4>Phillips hits 118 against India</h4>
     <p>New Zealand closed on 317/6; Nicholls was 146 not out.</p>
     <div class="src">ICC</div>
@@ -305,7 +375,9 @@
   <footer class="foot">
     <p><b>Date check.</b> Every story above is dated 20 November 2026: the thirteen in the hour strip were filed in UTC
       that day, the rest carry that day&rsquo;s dateline in their own time zone. Nothing here is from an earlier or later day.
-      Outlets are named with each story; the map is drawn from Natural Earth land outlines.</p>
+      Chips show sourcing: <b>OFFICIAL</b> where the outlet is the body that issued the report, <b>CONFIRMED</b>
+      where the edition worked from a published article, <b>REPORTED</b> where it worked from the outlet's sources.
+      The map is drawn from Natural Earth land outlines.</p>
     <div class="mark">One day &middot; 35 stories &middot; 7 regions</div>
   </footer>
 </body></html>

diff --git a/README.md b/README.md
@@ -3,10 +3,13 @@
 [![make.fun bounty](https://img.shields.io/badge/make.fun-news--image--20261120-b3261e)](https://make.fun/bounty/news-image-20261120)
 
 A single 1024 × 1024 front page that sums up Friday 20 November 2026: the date in full, a strip of
-the thirteen reports the edition stamps inside that day in UTC, three lead stories, a world map with
-one dot for each dateline, ten more stories with a drawn glyph each, ten figures from the day, and 22
-short briefs — all 35 of the day's stories, each with the outlet that reported it. The footer carries
+the thirteen reports the edition stamps inside that day in UTC, three lead stories drawn full-bleed
+across their panels, a world map with one dot for each dateline, ten more stories with a drawn glyph
+each, ten figures from the day, and 22 short briefs — all 35 of the day's stories, each with the outlet that reported it. The footer carries
 a date check: which stories are in the UTC strip and that nothing is from an earlier or later day.
+Every lead and card carries a sourcing chip derived from the edition's own fields: OFFICIAL when the
+outlet is the body that issued the report, CONFIRMED when the summary was built from a published
+article, REPORTED when it was built from the outlet's sources.
 
 The entry in the [make.fun bounty](https://make.fun/bounty/news-image-20261120) is `entry.png`;
 `main.ts` writes it to `/output/entry.png` and nothing else. It reads no network, installs nothing,
@@ -27,9 +30,9 @@ mkdir -p out && MAKEFUN_OUTPUT_DIR=out node main.ts
   geo, summary or tldr, and outlets.
 - `tools/copy.mjs` — the page's own wording, one entry per story. Facts (numbers, names, places)
   are the edition's; the sentences are written for this page.
-- `tools/build.mjs` — builds `tools/poster.html` in one pass: masthead, the UTC day strip, three leads
-  with drawn panels, the map, the numbers panel, ten cards with drawn glyphs, the briefs and the
-  colophon. It refuses to build unless all 35 stories appear exactly once, and it refuses any day-strip
+- `tools/build.mjs` — builds `tools/poster.html` in one pass: masthead, the UTC day strip, three full-bleed
+  drawn leads, the map, the numbers panel, ten cards with drawn glyphs and sourcing chips, the briefs
+  and the colophon. It refuses to build unless all 35 stories appear exactly once, and it refuses any day-strip
   time that is not that story's own `publishedAt` stamp on 2026-11-20 in UTC.
 - `tools/check-facts.mjs` — checks 41 of the page's figures and claims against the edition's own
   record of the story they belong to (`FACTS: 41 claims checked, all present in the edition`).
